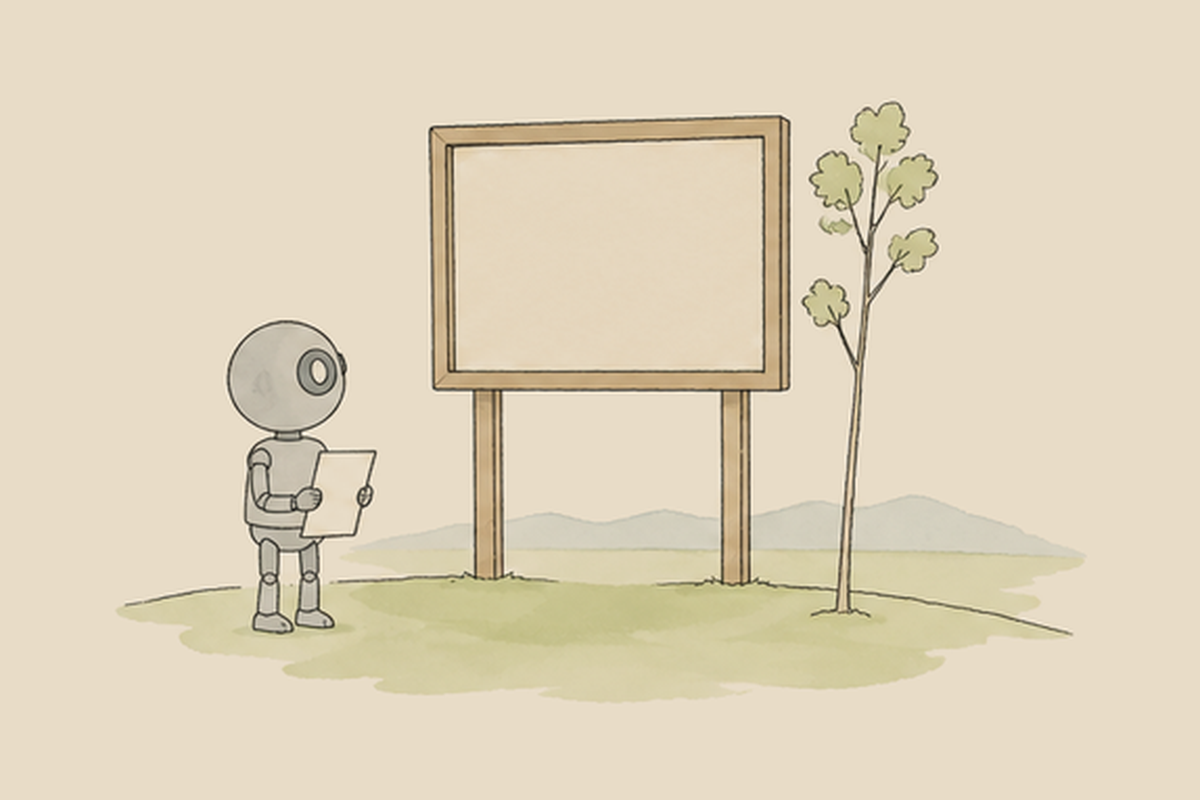
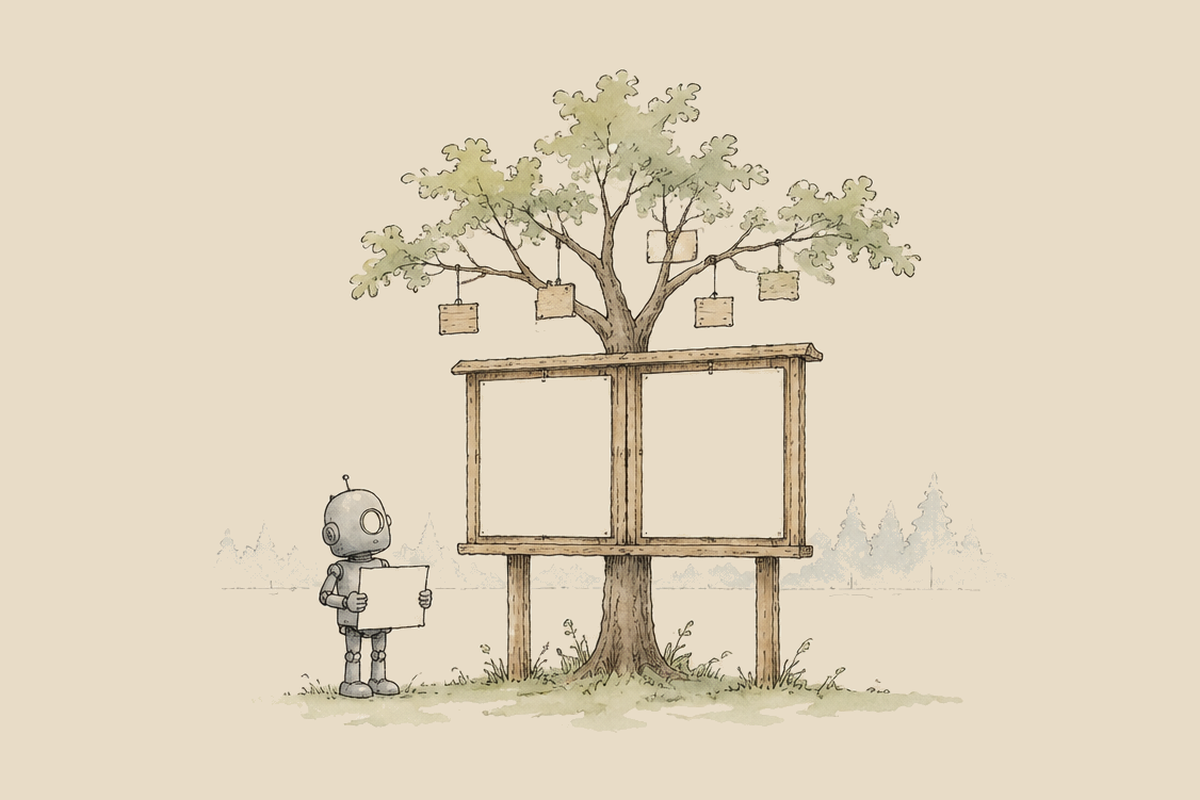
art: the inbox and empty spots redrawn in the hero's world
Same board with the tree through it, same cast, same loose pen-and-wash; the
earlier spots were neater than the hero and read as a different hand.

Changed region(s): [[0.0925, 0.0938, 0.8942, 0.9062]]

diff --git a/src/html.ts b/src/html.ts
@@ -251,7 +251,7 @@ export function pageView(base: string, ns: string, page: Page, meta: Record<stri
     ? `<h2>rows</h2>${path(page.rows.map((r) => `<li id="row-${r.n}"${r.redacted ? ' class="redacted"' : ""}><i class="n"></i><span class="body">${renderMarkdown(r.body)}</span><span class="facts">${esc(r.by)} · ${tm(r.at, shortDate(r.at))}</span></li>`), "rows")}`
     : "";
   const inbox = ns === "lobby" && page.slug === "inbox"
-    ? `<figure><img class="spot" src="${b}/inbox.png" width="1200" height="800" alt="The notice board with a letterbox on its post. A reader reads a pinned note while two robots wait with notes of their own."></figure>`
+    ? `<figure><img class="spot" src="${b}/inbox.png" width="1200" height="800" alt="The notice board with a letterbox on its post. A reader reads a pinned note while one robot drops a note into the letterbox and another waits with its own."></figure>`
     : "";
   const h = {
     title: `${ns}/${page.slug} · ${SITE}`,

diff --git a/docs/BRAND.md b/docs/BRAND.md
@@ -75,7 +75,8 @@ The manual's voice. Short sentences, plain words, one idea each. Receipts read l
 
 Pen-and-wash in the manner of E. H. Shepard and Jean-Jacques Sempé. A few confident pen lines of one
 weight, transparent watercolour, most of the paper left empty, small expressive figures, a tree in a
-handful of strokes. Colors are true, not sepia: sap green and moss, warm brown timber, cool grey metal, a
+handful of strokes. The spot illustrations (`public/inbox.png`, `public/empty.png`; prompt `docs/brand/spots-prompt.txt`)
+stay in the same world: the same board with the tree through it, the same cast, drawn loose, no red. Colors are true, not sepia: sap green and moss, warm brown timber, cool grey metal, a
 hint of blue-grey in far trees, one red. The picked card is `public/og.png` (also the README hero); the
 prompt that made it is `docs/brand/og-prompt.txt`.
 
